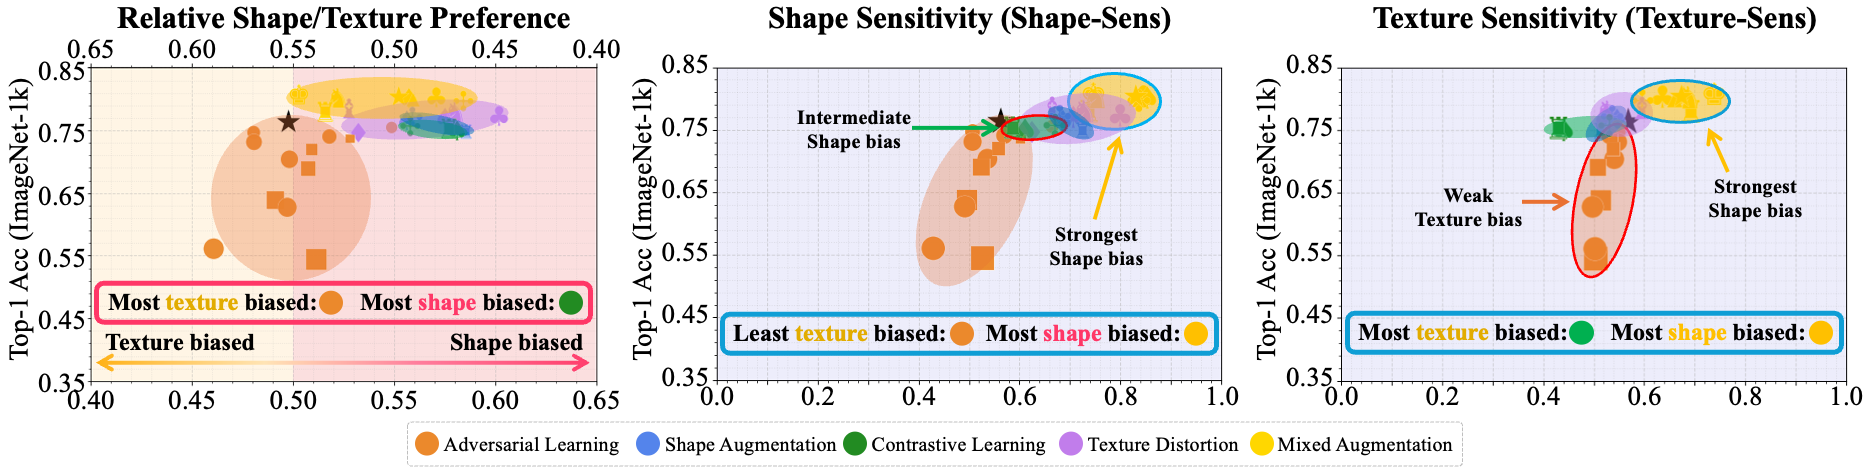
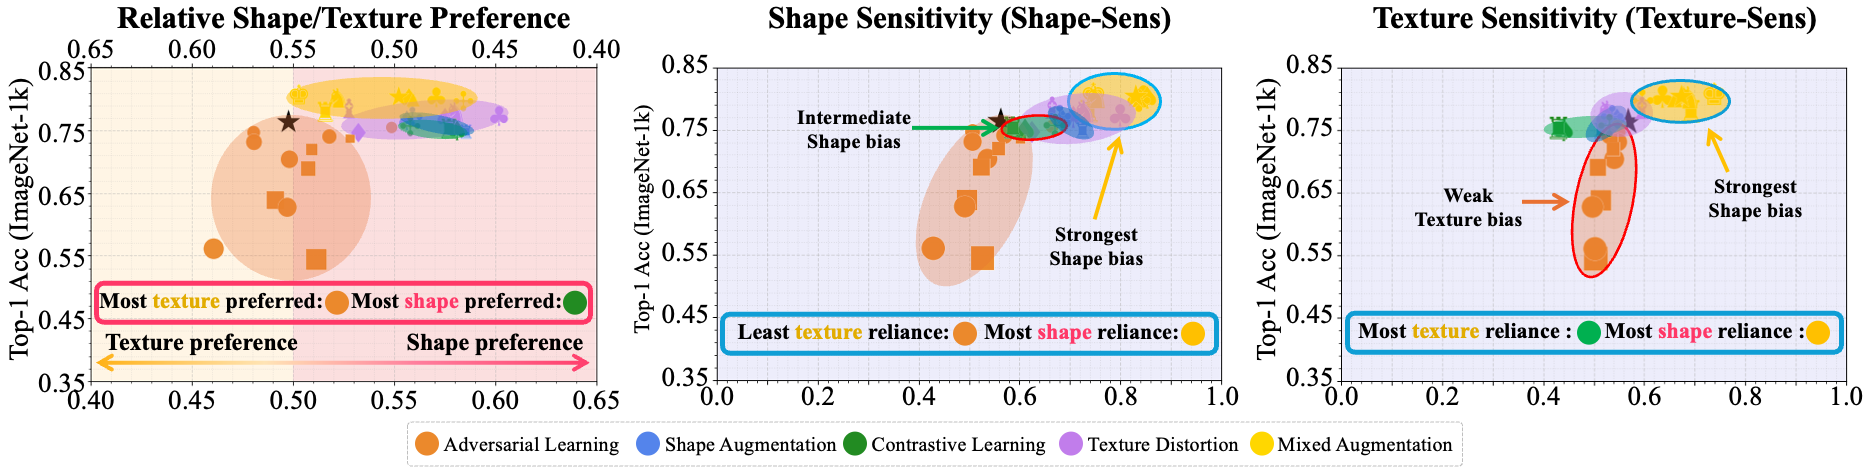
Update index.html

diff --git a/index.html b/index.html
@@ -764,13 +764,13 @@
 
                 <div class="content has-text-justified">
                   <p>
-                    We examine whether measuring relative bias on our dataset can capture meaningful cross-model differences.
+                    We examine whether measuring preference on our dataset can capture meaningful cross-model differences.
                   </p>
                   <p>
-                    Our dataset demonstrates that shape-focused strategies consistently increase shape bias. Notably, even nuanced strategies such as mixed augmentations, which apply mild texture degradation to subtly enhance shape, are accurately reflected by ours as an increased shape bias. While cue-conflict partly captures similar tendencies, many of its results are not statistically significant and show an inconsistent trend across the strategies.
+                    Our dataset demonstrates that shape-focused strategies consistently increase shape preference. Notably, even nuanced strategies such as mixed augmentations, which apply mild texture degradation to subtly enhance shape, are accurately reflected by ours as an increased shape preference. While cue-conflict partly captures similar tendencies, many of its results are not statistically significant and show an inconsistent trend across the strategies.
                   </p>
                   <p>
-                    For adversarial training, results on our dataset show that robustness to imperceptible noise does not significantly affect model bias. In contrast, cue-conflict reports a larger increase in shape bias than shape-focused methods, which is counterintuitive since it is primarily aimed at improving adversarial robustness, not shape preference.
+                    For adversarial training, results on our dataset show that robustness to imperceptible noise does not significantly affect model preference. In contrast, cue-conflict reports a larger increase in shape preference than shape-focused methods, which is counterintuitive since it is primarily aimed at improving adversarial robustness, not shape preference.
                   </p>
                 </div>
               </div>
@@ -794,7 +794,7 @@
                   We validate whether our metric can reveal cross-model differences that the relative bias metric fails to capture. 
                   </p>
                   <p>
-                  The relative bias metric on our dataset shows adversarial learning induces the strongest texture bias, while cue-conflict reports the strongest shape bias for the same method. However, applying our metric and dataset clearly shows that adversarial learning does not improve the utilization of either cue. 
+                  The relative preference metric on our dataset shows adversarial learning induces the strongest texture preference, while cue-conflict reports the strongest shape preference for the same method. However, applying our metric and dataset clearly shows that adversarial learning does not improve the utilization of either cue. 
                   In contrast, mixed augmentations lead models to genuinely leverage both shape and texture cues, exposing the differences obscured by the relative measure.
                   </p>
                   <p>These results highlight that our sensitivity metric reliably distinguishes models with stronger cue use and those with more balanced reliance.</p>
